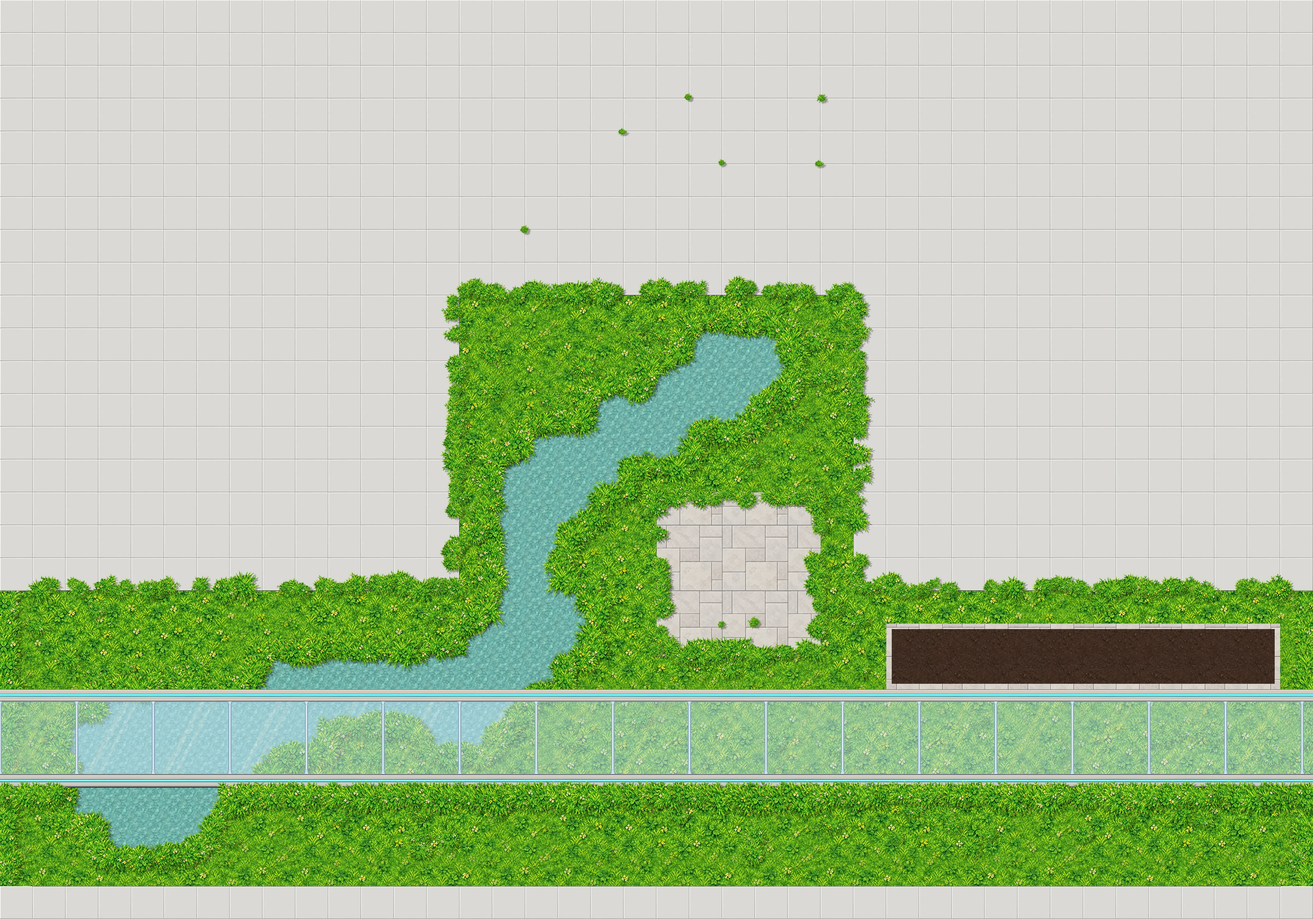
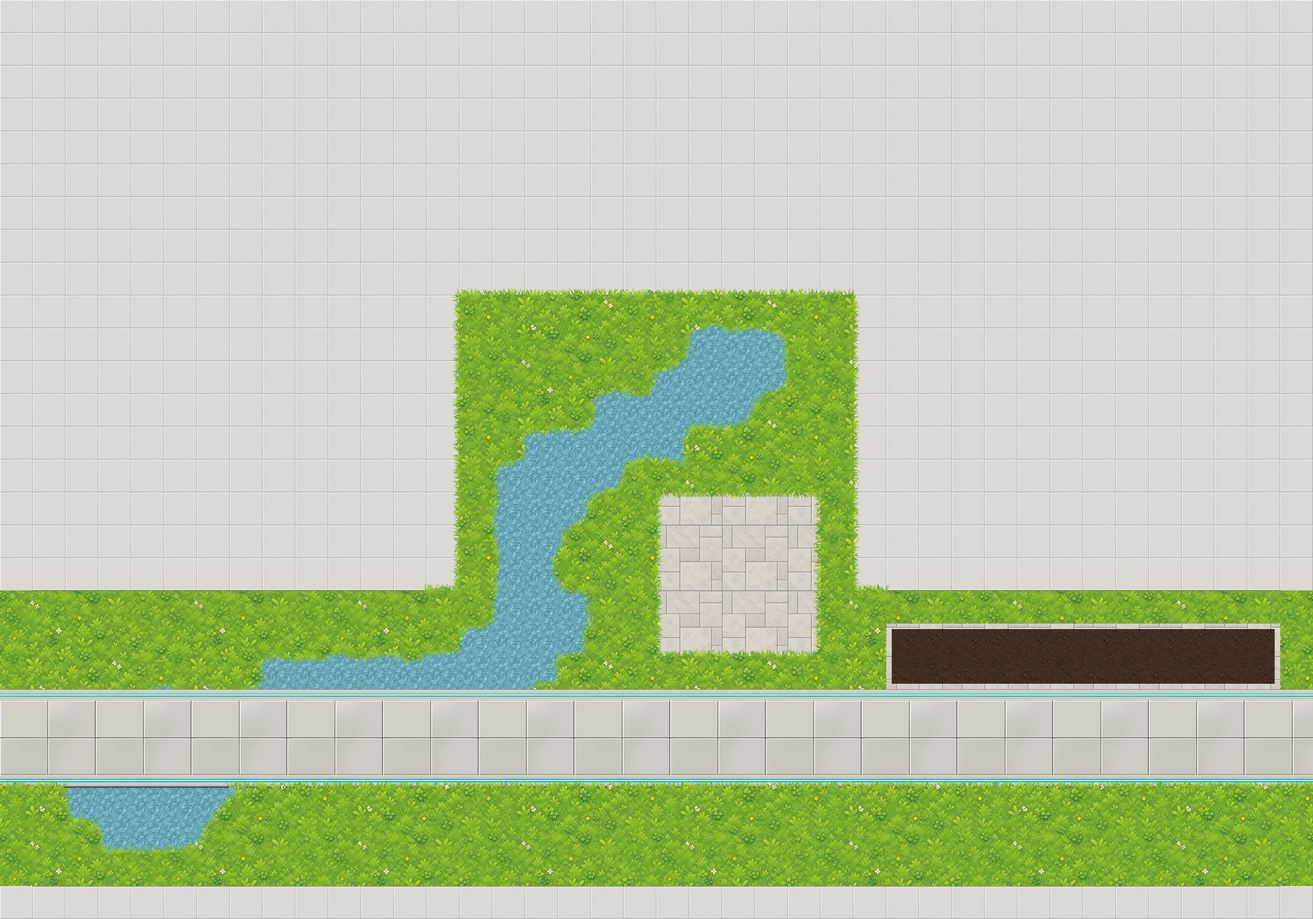
git pull

diff --git a/src/components/FacilityScene.tsx b/src/components/FacilityScene.tsx
@@ -5,6 +5,7 @@ import { ACTOR_HEIGHT, approach, fitViewport } from '../game/viewport';
 import { CropsMeta, RacksMeta, layoutRack, rackBounds, rackKey } from '../game/racks';
 import { dayNumber, stageAt } from '../game/growth';
 import { decorSprites, spriteFor } from '../game/decor';
+import { Fish, WaterMask, drawFish, rng, spawnFish, stepFish } from '../game/fish';
 
 /** 畫在地面之上、要和玩家排前後的東西：依底部 y 由上到下畫，玩家插在自己腳的位置。 */
 interface Standing { bottom: number; draw: (ctx: CanvasRenderingContext2D) => void }
@@ -28,7 +29,7 @@ export default function FacilityScene(props: Props) {
   const controls = useRef(props); controls.current = props;
   const keys = useRef(new Set<string>());
   const [status, setStatus] = useState(`正在載入${props.facility.name}…`);
-  const state = useRef({ map: null as FacilityMap | null, p: { x: 0, y: 0 } as Point, path: [] as Point[], direction: 'up', elapsed: 0, camera: { x: 0, y: 0 }, settled: false, view: { width: 1600, height: 996 }, items: [] as FacilityInteraction[], pending: null as FacilityInteraction | null, grid: true, standing: [] as Standing[], paintRacks: null as ((day: number) => void) | null });
+  const state = useRef({ map: null as FacilityMap | null, p: { x: 0, y: 0 } as Point, path: [] as Point[], direction: 'up', elapsed: 0, camera: { x: 0, y: 0 }, settled: false, view: { width: 1600, height: 996 }, items: [] as FacilityInteraction[], pending: null as FacilityInteraction | null, grid: true, standing: [] as Standing[], fish: [] as Fish[], water: null as WaterMask | null, paintRacks: null as ((day: number) => void) | null });
   const act = (item?: FacilityInteraction) => {
     const s = state.current;
     if (!s.map || controls.current.paused) return;
@@ -88,12 +89,23 @@ export default function FacilityScene(props: Props) {
         },
       }));
     }
+    /** 水面遮罩（facility_ground.py 產生的 water.png，1 px = 8 px 世界座標）；沒有就不放魚。 */
+    async function loadWater(folder: string, map: FacilityMap): Promise<WaterMask | null> {
+      if (!map.fish) return null;
+      const im = await load(`/assets/${folder}/water.png`).catch(() => null);
+      if (!im) return null;
+      const c = document.createElement('canvas'); c.width = im.width; c.height = im.height;
+      const g = c.getContext('2d')!; g.drawImage(im, 0, 0);
+      const px = g.getImageData(0, 0, im.width, im.height).data, water = new Uint8Array(im.width * im.height);
+      for (let i = 0; i < water.length; i++) water[i] = px[i * 4] > 127 ? 1 : 0;
+      return { width: im.width, height: im.height, scale: map.width * map.tileSize / im.width, water };
+    }
     async function start() {
       const { folder } = controls.current.facility;
       const response = await fetch(`/assets/${folder}/map.json`); if (!response.ok) throw new Error('map');
       const map: FacilityMap = await response.json();
       // L0 地面由 tools/art/facility_ground.py 依 map.json 的 terrain 拼成；種植架（racks）與樹、花（decor）另外疊上，其他擺設還沒上，先靠 G 鍵的碰撞格看位置。
-      const [background, sprite, racks, decor] = await Promise.all([load(`/assets/${folder}/ground.webp`), load('/assets/player/walk.png'), loadRacks(folder, map), loadDecor(folder, map)]);
+      const [background, sprite, racks, decor, water] = await Promise.all([load(`/assets/${folder}/ground.webp`), load('/assets/player/walk.png'), loadRacks(folder, map), loadDecor(folder, map), loadWater(folder, map)]);
       if (disposed) return;
       const s = state.current, world = worldSize(map);
       // 種植架是放大 2 倍的像素圖（不平滑）；樹和花是從大圖縮小（要平滑）
@@ -101,7 +113,9 @@ export default function FacilityScene(props: Props) {
         ...racks.racks.map(r => ({ bottom: r.bottom, draw: (c: CanvasRenderingContext2D) => { c.imageSmoothingEnabled = false; c.drawImage(r.image, r.x, r.y, r.width, r.height); } })),
         ...decor,
       ].sort((a, b) => a.bottom - b.bottom);
-      s.paintRacks = racks.paint; racks.paint(dayNumber(controls.current.gameDate, controls.current.gameTime));
+      s.paintRacks = racks.paint;
+      s.water = water; s.fish = water ? spawnFish(water, map.fish ?? 0, 7) : [];
+      const fishRandom = rng(Date.now()); racks.paint(dayNumber(controls.current.gameDate, controls.current.gameTime));
       s.map = map; s.items = interactions(map); s.p = spawn(map, controls.current.arrivedFrom);
       const box = canvas.parentElement!.getBoundingClientRect(); fit(box.width, box.height);
       setStatus(''); canvas.focus({ preventScroll: true });
@@ -144,6 +158,8 @@ export default function FacilityScene(props: Props) {
           ctx.fillStyle = '#ff305033';
           map.collision.forEach((row, y) => row.forEach((v, x) => { if (v) ctx.fillRect(x * map.tileSize, y * map.tileSize, map.tileSize, map.tileSize); }));
         }
+        // 水底下的魚影：畫在地面上、所有擺設和玩家底下
+        if (s.water) for (const f of s.fish) { if (!frozen) stepFish(f, dt, s.water, fishRandom); drawFish(ctx, f); }
         const item = frozen ? undefined : nearby(s.p, s.items);
         if (item) { ctx.strokeStyle = '#71efffaa'; ctx.lineWidth = 4; ctx.strokeRect(item.area.x + 2, item.area.y + 2, item.area.width - 4, item.area.height - 4); }
         s.standing.forEach(o => { if (o.bottom <= s.p.y) o.draw(ctx); });

diff --git a/src/game/facility.ts b/src/game/facility.ts
@@ -13,7 +13,7 @@ export interface TileRect { x: number; y: number; w: number; h: number }
 export interface Entrance extends TileRect { to: string; label: string; spawn: [number, number] }
 /** An interaction written in map.json, in tile units: `area` is what the player clicks, `stand` is where they walk to. */
 export interface InteractionSpec { id: string; kind: string; label: string; text: string; area: [number, number, number, number]; stand: [number, number] }
-export interface FacilityMap { tileSize: number; width: number; height: number; collision: number[][]; entrances: Entrance[]; interactions?: InteractionSpec[]; plots?: TileRect[]; racks?: RackSpec[]; decor?: DecorSpec[] }
+export interface FacilityMap { tileSize: number; width: number; height: number; collision: number[][]; entrances: Entrance[]; interactions?: InteractionSpec[]; plots?: TileRect[]; racks?: RackSpec[]; decor?: DecorSpec[]; fish?: number }
 /** `kind` is 'exit' for doorways (with `to`), 'plot' for farm plots, otherwise whatever map.json names it. */
 export interface FacilityInteraction { id: string; kind: string; label: string; text: string; point: Point; area: Rect; to?: string }
 

diff --git a/tools/art/lawn_painter.py b/tools/art/lawn_painter.py
@@ -17,12 +17,26 @@ from scipy import ndimage
 
 ROUND = 26           # 水岸圓角的模糊半徑（px）；越大越圓
 WOBBLE = .12         # 水岸起伏幅度
-EDGE_SPACING = 30    # 水岸葉團間距（px）
+EDGE_SPACING = 20    # 水岸葉團間距（px）
 EDGE_INSET = 12      # 葉團中心往草地內縮多少（px）；越小伸進水面越多
 SHORE = 26           # 水面靠岸加深的寬度（px）
-INNER_PER_TILE = .25 # 草地中間每格平均散放幾個葉團
-FRINGE_OVERLAP = 20  # 走廊等覆蓋貼圖下緣，草尖往上蓋過邊線幾 px
+INNER_PER_TILE = .15 # 草地中間每格平均散放幾個葉團
 SEED = 7
+# 邊緣陰影（使用者 2026-10-02 要求拿掉，全設 0；要恢復原本的值：.22／.25／.3／.16）
+EDGE_DARK = 0        # 草地靠水那一圈加深
+SHORE_DARK = 0       # 靠岸的水加深
+DROP_DARK = 0        # 草在水面上的投影
+TIP_SHADOW = 0       # 草尖的右下投影
+EDGE_CLUMPS = False  # 水岸與草地中間蓋葉團（2026-10-02 改用無描邊的淡彩小葉團 batch9，密密排成蓬鬆的草邊）
+CLUMP_SCALE = .62    # 葉團整體縮放（素材約 70 px → 35 px，參考圖的草邊是一片片小葉子）
+RIM = 'leaves'       # 草地的邊：'leaves'＝草地材質本身長出一圈細草尖（使用者 2026-10-02：邊緣是草不是葉子，現行）；
+                     # 'clumps'＝小葉團排成蓬鬆草邊；'spill'＝草地材質淡淡漫過去
+LEAF_STEP = 5        # 草叢間距（px），每叢 3–4 根草
+LEAF_LEN = (12, 24)  # 草尖長度（px）
+LEAF_LIGHT = 1.07    # 草尖比草地亮一點
+RIM_SPACING = 19     # 草邊葉團間距（px），越小越密
+RIM_OUT = (-6, 10)   # 葉團中心越過邊線伸進地磚幾 px（隨機）
+SHADOW = .14         # 葉團的右下投影濃度
 
 def available(tex_dir):
     return os.path.exists(os.path.join(tex_dir, 'lawn_field.png')) and glob.glob(os.path.join(tex_dir, 'lawn_clumps', '*.png'))
@@ -43,13 +57,13 @@ def paint(img, terrain, T, tex_dir):
     field = Image.open(os.path.join(tex_dir, 'lawn_field.png')).convert('RGB')
     tiled = np.tile(np.asarray(field, np.float32), (H // field.height + 1, W // field.width + 1, 1))[:H, :W]
     rim = np.clip((v - .3) / .2, 0, 1) * grass                      # 草緣內側加深
-    tiled = tiled * (1 - .22 * rim[..., None])
+    tiled = tiled * (1 - EDGE_DARK * rim[..., None])
     base = np.asarray(img, np.float32)
     to_grass = ndimage.distance_transform_edt(grass < .5).astype(np.float32)          # 水面上每一點到草緣的距離
     shore = np.clip(1 - to_grass / SHORE, 0, 1) * (1 - grass)      # 靠岸的水比較深
     drop = np.roll(np.roll(grass, 7, 0), 6, 1)                      # 草往右下的投影
     drop = ndimage.gaussian_filter(drop, 4).astype(np.float32) * (1 - grass)
-    base = base * (1 - (.25 * shore + .3 * drop)[..., None])
+    base = base * (1 - (SHORE_DARK * shore + DROP_DARK * drop)[..., None])
     out = tiled * grass[..., None] + base * (1 - grass[..., None])
     canvas = Image.fromarray(out.round().astype(np.uint8))
 
@@ -65,10 +79,14 @@ def paint(img, terrain, T, tex_dir):
     # 每個候選點（8px 一個，每格 144 個）依自己座標的雜湊決定要不要放，密度 INNER_PER_TILE
     h = (cand[:, 0].astype(np.uint64) * 73856093 ^ cand[:, 1].astype(np.uint64) * 19349663 ^ SEED * 83492791) % 1000003 / 1000003
     inner = cand[h < INNER_PER_TILE / 144]
-    stamps = [(y, x, 1.0) for y, x in points] + [(y, x, .7) for y, x in inner]
-    stamps.sort(key=lambda s: s[0])                                 # 下面的蓋在上面
-    for y, x, scale in stamps: stamp(canvas, clumps, y, x, scale)
-    print(f'lawn painted: {len(points)} edge clumps, {len(inner)} inner clumps')
+    if EDGE_CLUMPS:
+        stamps = [(y, x, 1.0) for y, x in points] + [(y, x, .7) for y, x in inner]
+        stamps.sort(key=lambda s: s[0])                             # 下面的蓋在上面
+        for y, x, scale in stamps: stamp(canvas, clumps, y, x, scale)
+    print(f'lawn painted: {len(points) if EDGE_CLUMPS else 0} edge clumps, {len(inner) if EDGE_CLUMPS else 0} inner clumps')
+    if RIM == 'leaves':                                             # 水岸也長一圈葉尖
+        _leaf_rim(canvas, grass > .5, grass <= .5, tex_dir, 11)
+    paint.water = grass < .5                                        # 畫面上實際的水面（給魚的遮罩用，見 facility_ground.water_mask）
     return canvas
 
 def load_clumps(tex_dir):
@@ -78,73 +96,134 @@ def stamp(canvas, clumps, y, x, scale, top=None):
     """蓋一個葉團：中心在 (x, y)；給 top 則改成讓葉團上緣對齊 top。隨機只看自己的位置。"""
     rng = np.random.default_rng([SEED, int(y if top is None else top), int(x)])
     c = clumps[rng.integers(len(clumps))]
-    s = scale * rng.uniform(.8, 1.15)
+    s = scale * CLUMP_SCALE * rng.uniform(.8, 1.15)
     c = c.resize((max(1, round(c.width * s)), max(1, round(c.height * s))), Image.LANCZOS)
     if rng.random() < .5: c = c.transpose(Image.FLIP_LEFT_RIGHT)
     px, py = int(x - c.width / 2), int(y - c.height / 2) if top is None else int(top)
     shadow = Image.new('RGBA', c.size, (0, 0, 0, 0))
-    shadow.putalpha(c.getchannel('A').point(lambda a: int(a * .3)))
-    canvas.paste(shadow, (px + 6, py + 5), shadow)
+    shadow.putalpha(c.getchannel('A').point(lambda a: int(a * SHADOW)))
+    canvas.paste(shadow, (px + 4, py + 3), shadow)
     canvas.paste(c, (px, py), c)
 
-def fringe(canvas, terrain, T, tex_dir, edge_y, x0, x1, overlap=FRINGE_OVERLAP):
-    """沿一條水平邊（例如走廊下緣）補一排葉團，草尖往上蓋過邊線 overlap px；邊下方是草地的地方才放。"""
-    if not available(tex_dir): return
-    clumps = load_clumps(tex_dir)
-    row = edge_y // T
-    n = 0
-    for x in range(x0 + EDGE_SPACING // 2, x1, EDGE_SPACING):
-        if 0 <= row < len(terrain) and terrain[row][x // T] == 'G':
-            stamp(canvas, clumps, 0, x, 1.0, top=edge_y - overlap); n += 1
-    print(f'grass fringe: {n} clumps along y={edge_y}')
+SPILL_REACH = 54     # 草溢到地磚上最遠幾 px（實際距離由雜訊決定，形成不規則舌狀邊）
+SPILL_GRAIN = 22     # 雜訊的平滑程度（px），越大舌狀邊越寬、越少
+SPILL_ALPHA = .94    # 溢出去的草有多實（1＝完全蓋住地磚）
+SPILL_RIM = .10      # 溢出邊緣那一圈淡淡變亮多少（參考圖的淡邊線）
+MOSS_SPOTS = .985    # 地磚上零星苔痕的門檻（越接近 1 越少）
+FRINGE_REACH = 24    # 走廊等覆蓋貼圖下緣，草往上溢多少
 
-CREEP_SPACING = 30   # 草地挨著地磚的邊上，葉團間距（px）
-CREEP_INTO = (-4, 22) # 葉團中心越過邊線、伸進地磚幾 px（隨機；負的＝縮回草地，邊上留缺口）
-CREEP_SKIP = .25     # 每個位置不放的機率，邊不會像修剪過的樹籬
-CREEP_SCALE = (.5, .85)
-WALL_TUFT = .45      # 牆腳小草叢的縮放
-WALL_CHANCE = .4     # 每格牆腳長草的機率
-SEAM_TUFT = .26      # 地磚接縫小草叢的縮放
-SEAM_CHANCE = .07    # 每格地磚（非遮擋處）在角落長一小撮草的機率
+def _noise(shape, sigma, seed):
+    """0–1 的平滑雜訊，用排名攤平，門檻比例才穩定。"""
+    n = ndimage.gaussian_filter(np.random.default_rng([SEED, seed]).standard_normal(shape), sigma)
+    return (np.argsort(np.argsort(n, axis=None)).reshape(shape) / n.size).astype(np.float32)
+
+def _lawn_tile(tex_dir, W, H):
+    field = np.asarray(Image.open(os.path.join(tex_dir, 'lawn_field.png')).convert('RGB'), np.float32)
+    return np.tile(field, (H // field.shape[0] + 1, W // field.shape[1] + 1, 1))[:H, :W]
+
+def _spill(canvas, lawn, target, reach, tex_dir, seed, spots=None):
+    """lawn（草地，bool H×W）往 target（可以被草蓋的地方）溢出去：離草地 reach×雜訊 以內的地方鋪上同一張草地材質，
+    邊緣羽化 1 px、加一圈淡淡的亮邊。spots 另外給零星苔痕的位置。半解析度算距離與雜訊，省時間。"""
+    H, W = target.shape
+    h2, w2 = H // 2, W // 2
+    half = lambda a: np.asarray(Image.fromarray(a.astype(np.uint8) * 255).resize((w2, h2), Image.NEAREST)) > 127
+    dist = ndimage.distance_transform_edt(~half(lawn)) * 2
+    reach_map = reach * (.2 + .8 * _noise((h2, w2), SPILL_GRAIN / 2, seed) ** 1.4)   # 至少溢一點，原本的直線格子邊才看不出來
+    m = (dist < reach_map) & half(target)
+    if spots is not None: m |= half(spots)
+    m = ndimage.binary_opening(m, iterations=1)                                   # 去掉一兩 px 的毛邊
+    full = np.asarray(Image.fromarray(m.astype(np.uint8) * 255).resize((W, H), Image.BILINEAR), np.float32) / 255
+    a = np.clip((full - .35) / .3, 0, 1)                                           # 羽化成 1–2 px 的軟邊
+    rim = a * (1 - ndimage.minimum_filter(a, 5))                                  # 只在邊緣那一圈
+    grass = _lawn_tile(tex_dir, W, H) * (1 + SPILL_RIM * rim[..., None])
+    base = np.asarray(canvas, np.float32)
+    out = base * (1 - SPILL_ALPHA * a[..., None]) + grass * (SPILL_ALPHA * a[..., None])
+    canvas.paste(Image.fromarray(np.clip(out, 0, 255).round().astype(np.uint8)))
+    return int((a > .5).sum())
+
+def _leaf_rim(canvas, lawn, target, tex_dir, seed):
+    """草地（lawn）挨著 target 的邊長出一圈尖葉：沿邊每 LEAF_STEP 一片，朝外伸 LEAF_LEN，
+    葉子裡填同一張草地材質（稍亮），沒有描邊，只有很淡的右下投影。回傳葉片數。"""
+    from PIL import ImageDraw
+    H, W = lawn.shape
+    edge = lawn & ~ndimage.binary_erosion(lawn, iterations=2) & ndimage.binary_dilation(target, iterations=4)
+    pts = spaced(np.argwhere(edge[::2, ::2]) * 2, LEAF_STEP, np.random.default_rng([SEED, seed]))
+    d = ndimage.gaussian_filter(ndimage.distance_transform_edt(lawn).astype(np.float32) - ndimage.distance_transform_edt(~lawn).astype(np.float32), 4)
+    gy, gx = np.gradient(d)
+    leaf = Image.new('L', (W, H), 0); dr = ImageDraw.Draw(leaf)
+    for y, x in pts:
+        r = np.random.default_rng([SEED, seed, int(y), int(x)])
+        n = np.hypot(gy[y, x], gx[y, x]) or 1
+        out = np.arctan2(-gy[y, x] / n, -gx[y, x] / n)                         # 朝草地外
+        for k in range(r.integers(3, 5)):                                       # 一叢 3–4 根細草，扇形散開、微彎
+            ang = out + r.uniform(-.75, .75)
+            L = r.uniform(*LEAF_LEN); w = r.uniform(3, 4.6)
+            ux, uy = np.cos(ang), np.sin(ang); vx, vy = -uy, ux
+            bend = r.uniform(-.25, .25) * L
+            bx, by = x - ux * 3 + r.uniform(-2, 2), y - uy * 3 + r.uniform(-2, 2)
+            mx, my = bx + ux * L * .55 + vx * bend * .4, by + uy * L * .55 + vy * bend * .4
+            tx, ty = bx + ux * L + vx * bend, by + uy * L + vy * bend
+            dr.polygon([(bx + vx * w / 2, by + vy * w / 2), (mx + vx * w * .3, my + vy * w * .3), (tx, ty),
+                        (mx - vx * w * .3, my - vy * w * .3), (bx - vx * w / 2, by - vy * w / 2)], fill=255)
+    m = (np.asarray(leaf, np.float32) / 255) * (~lawn)
+    shadow = ndimage.shift(m, (2, 2), order=0) * (1 - m) * TIP_SHADOW
+    grass = _lawn_tile(tex_dir, W, H) * LEAF_LIGHT
+    base = np.asarray(canvas, np.float32) * (1 - shadow[..., None])
+    out = base * (1 - m[..., None]) + grass * m[..., None]
+    canvas.paste(Image.fromarray(np.clip(out, 0, 255).round().astype(np.uint8)))
+    return len(pts)
+
+def _rim(canvas, lawn, target, tex_dir, seed):
+    """草地（lawn）挨著 target 的那條邊，密密排一圈小葉團（RIM_SPACING 一個），中心往 target 那側推 RIM_OUT。"""
+    clumps = load_clumps(tex_dir)
+    edge = lawn & ~ndimage.binary_erosion(lawn, iterations=2) & ndimage.binary_dilation(target, iterations=3)
+    pts = spaced(np.argwhere(edge[::2, ::2]) * 2, RIM_SPACING, np.random.default_rng([SEED, seed]))
+    dist_in = ndimage.distance_transform_edt(lawn)          # 推的方向：沿著草地距離的反梯度
+    gy, gx = np.gradient(ndimage.gaussian_filter(dist_in.astype(np.float32), 3))
+    stamps = []
+    for y, x in pts:
+        r = np.random.default_rng([SEED, seed, int(y), int(x)])
+        n = np.hypot(gy[y, x], gx[y, x]) or 1
+        out = r.uniform(*RIM_OUT)
+        stamps.append((int(y - gy[y, x] / n * out), int(x - gx[y, x] / n * out), r.uniform(.7, 1.1)))
+    stamps.sort(key=lambda s: s[0])
+    for y, x, s in stamps: stamp(canvas, clumps, y, x, s)
+    return len(stamps)
+
+def fringe(canvas, terrain, T, tex_dir, edge_y, x0, x1, overlap=FRINGE_REACH):
+    """覆蓋貼圖（例如玻璃走廊）的下緣：下方是草地的地方，草淡淡往上溢 overlap px。"""
+    if not available(tex_dir): return
+    W, H = canvas.size
+    row = edge_y // T
+    lawn = np.zeros((H, W), bool); target = np.zeros((H, W), bool)
+    for x in range(len(terrain[0])):
+        if 0 <= row < len(terrain) and terrain[row][x] == 'G' and x0 <= x * T < x1:
+            lawn[edge_y:edge_y + T, x * T:(x + 1) * T] = True
+    target[max(0, edge_y - overlap):edge_y, x0:x1] = True
+    n = _leaf_rim(canvas, lawn, target, tex_dir, 21) if RIM == 'leaves' else _rim(canvas, lawn, target, tex_dir, 21) if RIM == 'clumps' else _spill(canvas, lawn, target, overlap, tex_dir, 21)
+    print(f'grass fringe: {n} px along y={edge_y}')
 
 def creep(canvas, terrain, T, tex_dir, paved, wall, hidden=frozenset()):
-    """草侵入地磚：
-    1. 草地挨著地磚（paved 裡的地面）的邊上一排葉團，草尖蓋過邊線，直線邊不再那麼整齊；
-    2. 地磚挨著外牆（wall(x, y) 為真）的牆腳零星小草叢；
-    3. 開放地磚的接縫零星一小撮草。hidden 是被擺設蓋住的格子，不用浪費在那裡。
-    位置隨機只看自己的座標，改地圖只影響附近。"""
+    """草漫到地磚上（淡彩、無描邊）：草地挨著地磚的地方，草地材質依雜訊溢出成不規則的舌狀，邊緣淡淡的；
+    牆腳與開放地磚上零星幾塊苔痕。hidden（被擺設蓋住的格子）、外牆不畫。"""
     if not available(tex_dir): return
-    clumps = load_clumps(tex_dir)
-    H, W = len(terrain), len(terrain[0])
-    at = lambda x, y: terrain[y][x] if 0 <= x < W and 0 <= y < H else None
-    rnd = lambda *k: np.random.default_rng([SEED, 9, *k])
-    stamps = []
-    for y in range(H):
-        for x in range(W):
-            c = at(x, y)
-            if c == 'G':
-                for dx, dy in ((1, 0), (-1, 0), (0, 1), (0, -1)):
-                    if at(x + dx, y + dy) not in paved or wall(x + dx, y + dy): continue
-                    # 邊線中點往地磚那側推 CREEP_INTO，沿邊每 CREEP_SPACING 一個，帶一點抖動
-                    n = max(1, round(T / CREEP_SPACING))
-                    for i in range(n):
-                        r = rnd(x, y, dx + 2, dy + 2, i)
-                        if r.random() < CREEP_SKIP: continue
-                        t, into = (i + .5) / n * T + r.uniform(-8, 8), r.uniform(*CREEP_INTO)
-                        cx = x * T + (T if dx > 0 else 0 if dx < 0 else t) + dx * into
-                        cy = y * T + (T if dy > 0 else 0 if dy < 0 else t) + dy * into
-                        stamps.append((cy, cx, r.uniform(*CREEP_SCALE)))
-            elif c in paved and not wall(x, y) and (x, y) not in hidden:
-                for dx in (-1, 1):
-                    if wall(x + dx, y) and rnd(x, y, 5, dx + 2).random() < WALL_CHANCE:
-                        r = rnd(x, y, 6, dx + 2)
-                        stamps.append((y * T + r.uniform(.2, .9) * T, x * T + (0 if dx < 0 else T) - dx * 10, WALL_TUFT * r.uniform(.8, 1.2)))
-                r = rnd(x, y, 7)
-                if r.random() < SEAM_CHANCE:
-                    stamps.append((y * T + r.choice([0, T]) + r.uniform(-4, 4), x * T + r.choice([0, T]) + r.uniform(-4, 4), SEAM_TUFT * r.uniform(.8, 1.2)))
-    stamps.sort(key=lambda s: s[0])
-    for y, x, scale in stamps: stamp(canvas, clumps, int(y), int(x), scale)
-    print(f'grass creep: {len(stamps)} clumps')
+    W, H = canvas.size
+    rows, cols = len(terrain), len(terrain[0])
+    cell = lambda pred: np.kron(np.array([[pred(x, y) for x in range(cols)] for y in range(rows)], bool), np.ones((T, T), bool))[:H, :W]
+    lawn = cell(lambda x, y: terrain[y][x] == 'G')
+    target = cell(lambda x, y: terrain[y][x] in paved and not wall(x, y) and (x, y) not in hidden)
+    near_wall = cell(lambda x, y: terrain[y][x] in paved and (x, y) not in hidden and not wall(x, y) and (wall(x - 1, y) or wall(x + 1, y)))
+    h2, w2 = H // 2, W // 2
+    up = lambda a: np.asarray(Image.fromarray(a.astype(np.uint8) * 255).resize((W, H), Image.NEAREST)) > 127
+    spots = target & up((_noise((h2, w2), 4, 33) > MOSS_SPOTS) & (_noise((h2, w2), 30, 34) > .7)) | (target & near_wall & up(_noise((h2, w2), 4, 35) > MOSS_SPOTS - .01))
+    if RIM == 'leaves':
+        n = _leaf_rim(canvas, lawn, target, tex_dir, 32)
+        print(f'grass creep: {n} leaf tips'); return
+    if RIM == 'clumps':
+        n = _rim(canvas, lawn, target, tex_dir, 32)
+        print(f'grass creep: {n} rim clumps'); return
+    n = _spill(canvas, lawn, target, SPILL_REACH, tex_dir, 32, spots)
+    print(f'grass creep: {n} px of spill')
 
 def spaced(pts, spacing, rng):
     """從候選點裡挑出彼此至少相距 spacing 的點（隨機順序，格子雜湊加速）。"""

diff --git a/tools/art/facility_ground.py b/tools/art/facility_ground.py
@@ -5,8 +5,8 @@ map.json 的 ground 設定每個設施用哪些地面、疊放順序與材質檔
 layers 由下往上排，最下層先鋪滿整張。
 "overlays": [{"texture": "corridor", "x": 0, "y": 21, "w": 40, "h": 3}] 是疊在最上面的橫向長條貼圖（例如走廊），
 單位是格：貼圖高度縮放到 h 格、只在左右方向重複，可以半透明（溫室走廊透出底下的池塘）。
-"grassCreep": {"paved": "WP"} 讓草從草地邊緣蓋到這些地磚上，牆腳與地磚接縫也零星長草（lawn_painter.creep）。
-加 "grassFringe": "bottom" 時，下緣挨著草地的地方補一排葉團，草尖蓋到貼圖上（lawn_painter.FRINGE_OVERLAP）。
+"grassCreep": {"paved": "WP"} 讓草地依雜訊淡淡漫到這些地磚上（不規則舌狀邊、無描邊），牆腳與地磚上零星苔痕（lawn_painter.creep）。
+加 "grassFringe": "bottom" 時，下緣挨著草地的地方草也淡淡往上漫過貼圖邊（lawn_painter.FRINGE_REACH）。
 覆蓋貼圖不佔地面格，底下照常是 terrain 畫出的水或草。特殊效果依材質名稱觸發：lawn（遮罩＋葉團）、water（水邊陰影）、deck（外緣木條）；
 工程區沒有水和草，就不會用到它們（之後中央廣場可能會用）。
 
@@ -158,6 +158,24 @@ def main(map_path, tex_dir, out):
         print('overlay', o['texture'])
     img.save(out, quality=86)
     print('saved', out, img.size)
+    if getattr(lawn_painter.paint, 'water', None) is not None:
+        water_mask(lawn_painter.paint.water, m, T, os.path.join(os.path.dirname(out), 'water.png'))
+
+FISH_MARGIN = 36   # 魚影中心離岸至少幾 px：岸邊葉團會伸進水面約 30 px，魚不能游到草底下
+MASK_SCALE = 8     # 遮罩每格代表幾 px
+
+def water_mask(water, m, T, out):
+    """給遊戲裡水下魚影用的遮罩：畫面上的水面往內縮 FISH_MARGIN，扣掉覆蓋貼圖（玻璃走廊）底下，
+    縮成 1/MASK_SCALE（區塊內全是水才算水）。白＝魚可以游的地方。"""
+    from scipy import ndimage
+    import numpy as np
+    w = ndimage.binary_erosion(water, iterations=FISH_MARGIN)
+    for o in m['ground'].get('overlays', []):
+        w[o['y'] * T - FISH_MARGIN:(o['y'] + o['h']) * T + FISH_MARGIN, o['x'] * T:(o['x'] + o['w']) * T] = False
+    H, W = w.shape
+    blocks = w[:H // MASK_SCALE * MASK_SCALE, :W // MASK_SCALE * MASK_SCALE].reshape(H // MASK_SCALE, MASK_SCALE, W // MASK_SCALE, MASK_SCALE).all(axis=(1, 3))
+    Image.fromarray((blocks * 255).astype('uint8')).save(out)
+    print('water mask', out, blocks.shape[::-1], int(blocks.sum()), 'cells')
 
 def draw_overlay(img, o, path, T):
     """橫向長條覆蓋貼圖：縮到 h 格高，以地圖 x=0 為起點左右重複，依透明度疊在最上面。"""

diff --git a/tools/art/lawn_assets.py b/tools/art/lawn_assets.py
@@ -22,16 +22,26 @@ def seamless(a):
     return a * weight + rolled * (1 - weight)
 
 def field(src, out):
-    im = Image.open(src).convert('RGB')
+    im = Image.open(src)
+    if im.mode == 'RGBA' and np.asarray(im)[..., 3].min() < 128:
+        # GPT 有時把草地底色畫成透明、只留色塊：鋪在透明區的平均色上（底下殘留的 RGB 是模糊殘影，不能直接用）
+        a = np.asarray(im)
+        base = tuple(int(v) for v in a[..., :3][a[..., 3] < 32].mean(0))
+        flat = Image.new('RGBA', im.size, base + (255,)); flat.alpha_composite(im); im = flat
+    im = im.convert('RGB')
     im = im.resize((round(im.width * SCALE), round(im.height * SCALE)), Image.LANCZOS)
     a = seamless(np.asarray(im, np.float32))
     Image.fromarray(a.round().astype(np.uint8)).save(out); print('field', out, im.size)
 
 def clumps(src, out_dir):
-    a = np.asarray(Image.open(src).convert('RGB')).astype(np.float32)
-    r, g, b = a[..., 0], a[..., 1], a[..., 2]
-    magenta = (np.minimum(r, b) - g > 70) & (r > 150) & (b > 150)
-    fg = ndimage.binary_erosion(~magenta, iterations=2)      # 去掉洋紅滲色的外緣
+    src_im = Image.open(src)
+    a = np.asarray(src_im.convert('RGB')).astype(np.float32)
+    if src_im.mode == 'RGBA' and np.asarray(src_im)[..., 3].min() == 0:
+        fg = np.asarray(src_im)[..., 3] > 128                 # 透明背景（GPT 現在可以直接出）
+    else:
+        r, g, b = a[..., 0], a[..., 1], a[..., 2]
+        magenta = (np.minimum(r, b) - g > 70) & (r > 150) & (b > 150)
+        fg = ndimage.binary_erosion(~magenta, iterations=2)  # 洋紅背景：去掉滲色的外緣
     fg = ndimage.binary_opening(fg, iterations=1)
     lab, n = ndimage.label(fg)
     sizes = ndimage.sum(fg, lab, range(1, n + 1))
